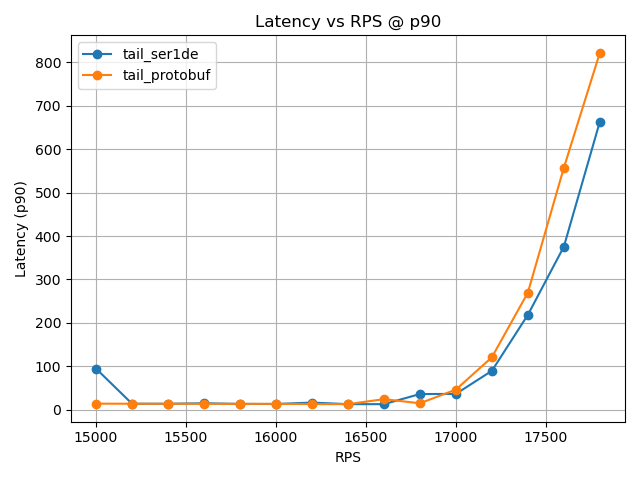
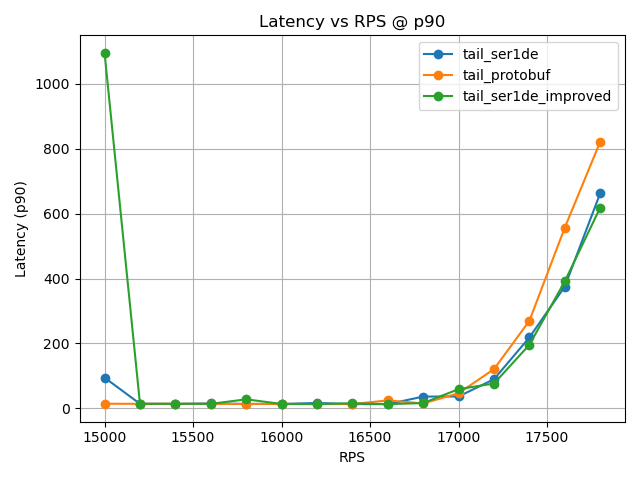
update plot

diff --git a/get_avg_latency.py b/get_avg_latency.py
@@ -34,15 +34,17 @@ def process_file(filename):
 
 ser1de = "tail_ser1de"
 proto = "tail_protobuf"
+ser1de_improved = "tail_ser1de_improved"
 
-# Process both files
+# Process all three files
 res1 = process_file(ser1de+'.txt')
 res2 = process_file(proto+'.txt')
+res3 = process_file(ser1de_improved+'.txt')
 
 labels = {
     "0.500000": "p50",
     "0.900000": "p90",
-    "0.990625": "p95"
+    "0.990625": "p99"
 }
 
 for key in ["0.500000", "0.900000", "0.990625"]:
@@ -50,8 +52,10 @@ for key in ["0.500000", "0.900000", "0.990625"]:
     # Sort RPS for consistent plotting
     rps1 = sorted(res1[key].keys())
     rps2 = sorted(res2[key].keys())
+    rps3 = sorted(res3[key].keys())
     plt.plot(rps1, [res1[key][rps] for rps in rps1], marker='o', label=ser1de)
     plt.plot(rps2, [res2[key][rps] for rps in rps2], marker='o', label=proto)
+    plt.plot(rps3, [res3[key][rps] for rps in rps3], marker='o', label=ser1de_improved)
     plt.xlabel("RPS")
     plt.ylabel(f"Latency ({labels[key]})")
     plt.title(f"Latency vs RPS @ {labels[key]}")
@@ -61,4 +65,4 @@ for key in ["0.500000", "0.900000", "0.990625"]:
     plt.savefig(f"latency_{labels[key]}.png")  # Save each plot as a PNG file
     # plt.show()  # Uncomment to display interactively
 
-print("Plots saved as latency_p50.png, latency_p90.png, latency_p95.png")
+print("Plots saved as latency_p50.png, latency_p90.png, latency_p99.png")